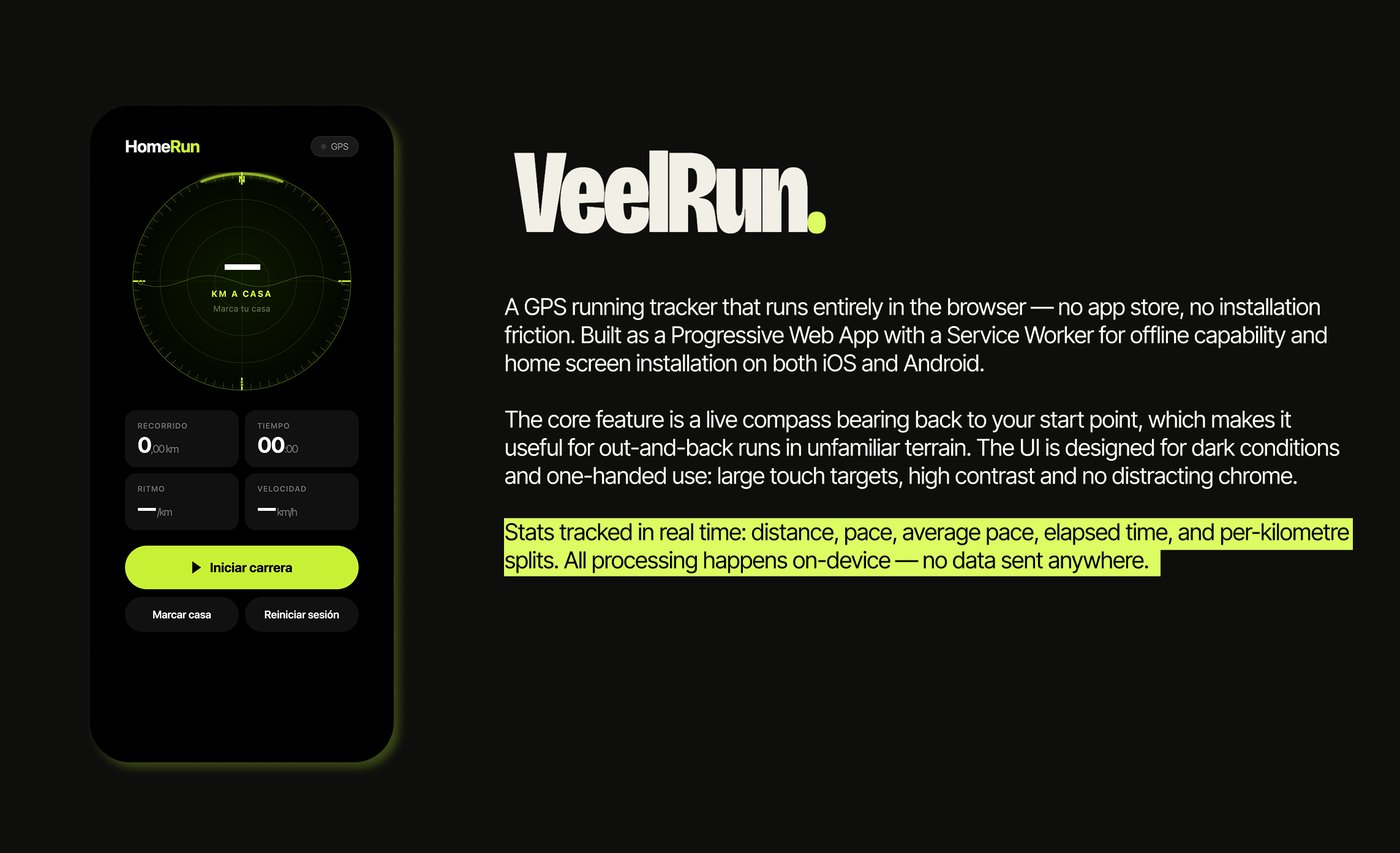
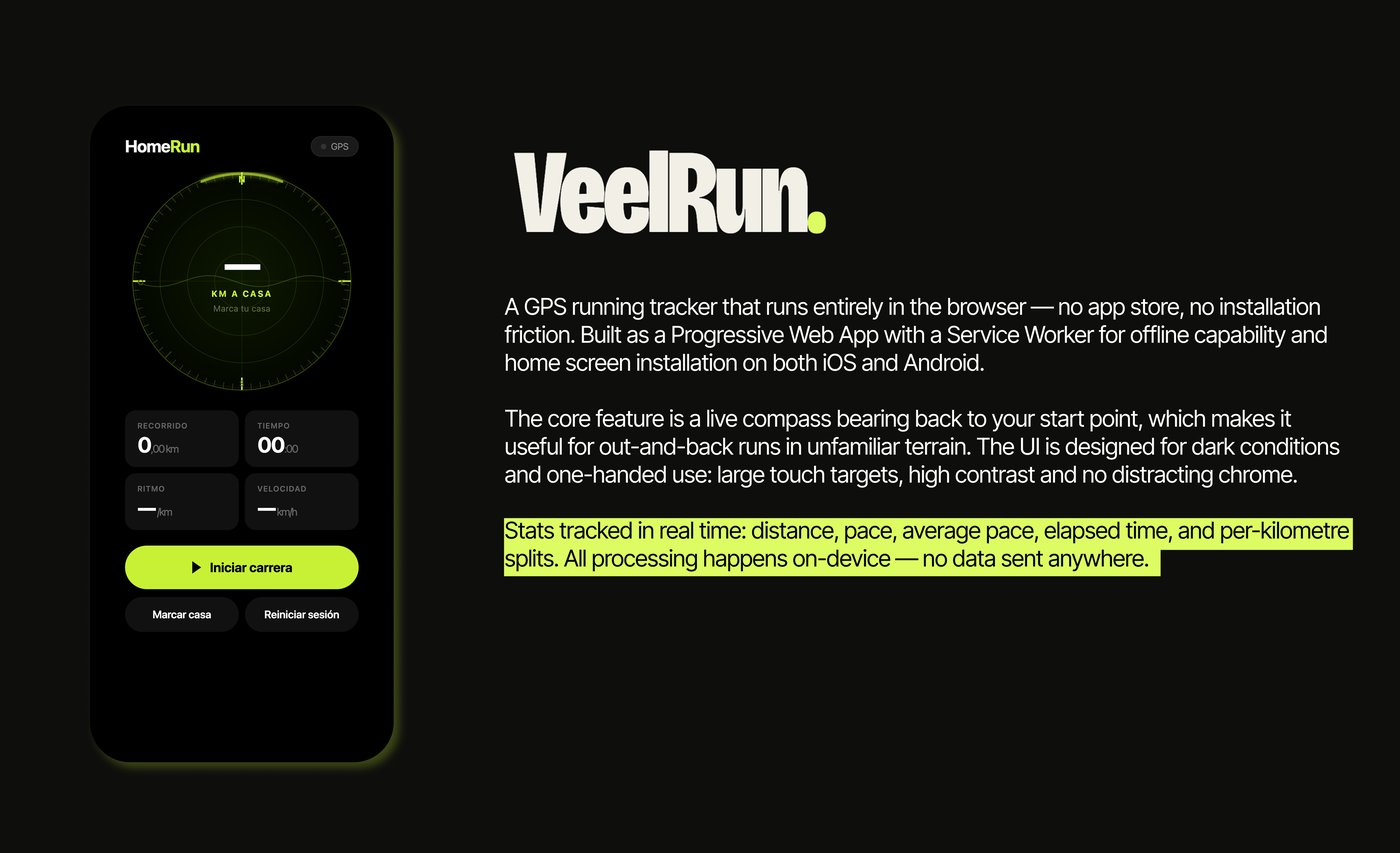
VeelRun: reprocess cover, add iPhone gallery shot, top-align image

diff --git a/lib/work.ts b/lib/work.ts
@@ -70,6 +70,7 @@ export const PROJECTS: Project[] = [
     tags: "Mobile · GPS · PWA",
     year: "2025",
     liveHref: "https://veelrun.onrender.com/",
+    imagePosition: "top",
     desc: "GPS running tracker built as a PWA — installable on iOS and Android without the App Store. Live bearing to home, pace, split stats and distance. Dark minimal UI built for one hand. Live on Render.",
     body: [
       "A GPS running tracker that runs entirely in the browser — no app store, no installation friction. Built as a Progressive Web App with a Service Worker for offline capability and home screen installation on both iOS and Android.",
@@ -77,7 +78,9 @@ export const PROJECTS: Project[] = [
       "Stats tracked in real time: distance, pace, average pace, elapsed time, and per-kilometre splits. All processing happens on-device — no data sent anywhere.",
     ],
     image: "/images/work/veelrun/cover.jpg",
-    gallery: [],
+    gallery: [
+      "/images/work/veelrun/gallery/screen-01.jpg",
+    ],
     meta: {
       type: "Personal project",
       year: "2025",
